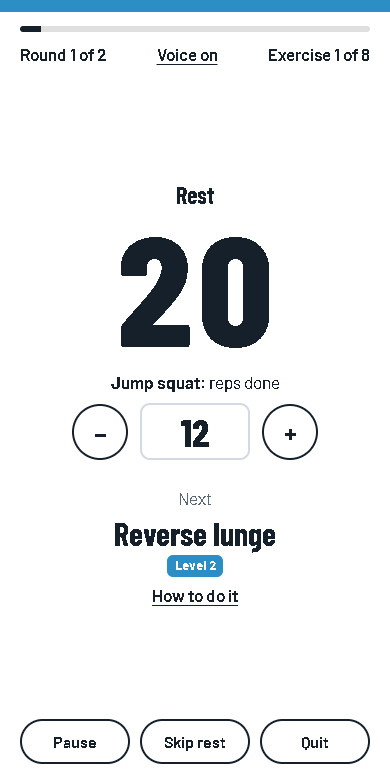
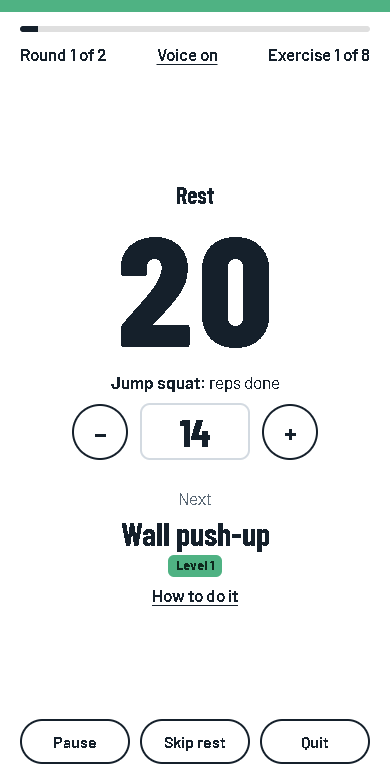
Teacher tutorial with screenshots, updated student tutorial
- Teacher tutorial: 15 steps in 6 topics covering every option, with screenshots,
  topic buttons and print
- Student tutorial: heart-rate check, live challenge and leaderboard, More menu;
  all screenshots retaken from the current app
- Timer: the heart-rate screen no longer shows an exercise counter

Changed region(s): [[0.0, 0.0, 1.0, 0.0308], [0.2769, 0.6462, 0.7077, 0.7385], [0.4615, 0.5231, 0.5538, 0.5846]]

diff --git a/index.html b/index.html
@@ -247,6 +247,7 @@ details.more>summary,details.settings>summary{cursor:pointer}
 button.tag.flag{border:0;cursor:pointer;background:var(--l4);color:#fff;font:700 .72rem var(--body)}
 canvas.confetti{position:fixed;inset:0;pointer-events:none;z-index:120}
 .tut img{display:block;width:100%;max-width:340px;border:1px solid var(--line);border-radius:12px;margin:10px 0 4px}
+.tguide img{max-width:760px}
 .tut .step{font-family:var(--display);font-weight:800;font-size:1.3rem}
 select.mv{width:auto;padding:.3em .5em;font-size:.9rem;border-radius:999px}
 @media (prefers-reduced-motion:reduce){*{transition:none!important}}
@@ -1526,7 +1527,7 @@ function renderPhase(){
       <button type="button" class="link" id="howp">How to do it</button>`;
   }
   el.innerHTML = `<div class="p-bar"><i style="width:${Math.round(P.i/P.phases.length*100)}%"></i></div>
-    <div class="p-top">${ph.type.startsWith('pulse') ? '<span>Heart rate</span>' : ph.item ? `<span>${ph.type==='warm' ? 'Warm-up' : 'Cool-down'} ${ph.idx+1} of ${ph.total}</span>` : `<span>Round ${ph.round+1} of ${R}</span>`}<button type="button" class="link small" id="vc" style="color:inherit">${voiceOn() ? 'Voice on' : 'Voice off'}</button>${ph.item ? '<span></span>' : `<span>Exercise ${ph.ex+1} of ${N}</span>`}</div>
+    <div class="p-top">${ph.type.startsWith('pulse') ? '<span>Heart rate</span>' : ph.item ? `<span>${ph.type==='warm' ? 'Warm-up' : 'Cool-down'} ${ph.idx+1} of ${ph.total}</span>` : `<span>Round ${ph.round+1} of ${R}</span>`}<button type="button" class="link small" id="vc" style="color:inherit">${voiceOn() ? 'Voice on' : 'Voice off'}</button>${ph.item || ph.type.startsWith('pulse') ? '<span></span>' : `<span>Exercise ${ph.ex+1} of ${N}</span>`}</div>
     <div class="p-main">${main}</div>
     <div class="p-ctrl">${P.sched ? '<span class="pbtn" style="border-style:dashed">Live with your class</span>' : `<button class="pbtn" id="pp">${P.paused?'Resume':'Pause'}</button>`}${ph.type==='work' || ph.type.startsWith('pulse') || P.sched ? '' : `<button class="pbtn" id="skip">${ph.type==='rest' ? 'Skip rest' : ph.item ? 'Skip' : 'Start now'}</button>`}<button class="pbtn" id="quit">Quit</button></div>`;
   if($('#pp')) $('#pp').onclick = togglePause;
@@ -1716,14 +1717,15 @@ function showHow(fid, only){
 
 /* ===== Student tutorial (screenshots in tutorial/) ===== */
 const TUTORIAL = [
-  ['Join your class', 'Scan the QR code on your teacher\'s class sheet, or open the link. It fills in your form and class code for you. Otherwise, choose your form, for example 10C, and type the class code.', 'join'],
-  ['Find your name', 'Pick your name. The first time, create a 4-digit PIN you will remember. On your own phone, leave "Keep me logged in" ticked.', 'name'],
-  ['Your page', 'The first line shows your week, for example "2 of 3 workouts". Your teacher\'s challenge workout is below it, with the date to do it by. Tap "See the workout".', 'home'],
-  ['Check the workout', 'The exercises run in this order. Where you see four levels, choose the one that challenges you. Tap "How to" if you are not sure how an exercise is done. Then press Start. The timer begins with a short warm-up. After the last exercise it turns red: find your pulse and count your beats for 30 seconds, then the stretches begin.', 'programme'],
+  ['Join your class', 'Scan the QR code on your teacher\'s class sheet, or open the link: it fills in your form and class code for you. Otherwise, choose your form, for example 10C, and type the class code.', 'join'],
+  ['Find your name', 'Pick your name. The first time, create a 4-digit PIN you will remember. On your own phone, leave "Keep me logged in" ticked. <b>TEACHER</b> at the end of the list is for your PE teacher.', 'name'],
+  ['Your page', 'The first line shows your week, for example "2 of 3 workouts". Your teacher\'s challenge is below it, with the date to do it by: tap <b>See the workout</b>. When there is no challenge, the big button starts a quick workout. Everything else is under <b>More</b>.', 'home'],
+  ['Check the workout', 'The exercises run in this order. Where you see four levels, choose the one that challenges you. Tap "How to" if you are not sure how an exercise is done. Then press Start. The timer begins with a short warm-up.', 'programme'],
   ['Follow the timer', 'Do the exercise until the timer ends and count your reps (or hold). You can pause, but you cannot skip an exercise.', 'work'],
   ['Log your score in the rest', 'During the rest, type how many reps you did, or how many seconds you held. If you are ready early, tap "Skip rest".', 'rest'],
-  ['Save your workout', 'Check your scores, choose how hard it felt from 1 to 10, then save. Every rep is 1 point and every second held is half a point, and harder levels are worth more.', 'summary'],
-  ['Train live with your class', 'When your teacher starts a live session, an alert appears on your page. Tap "I\'m ready". The workout starts for everyone at the same moment, so keep the app open. If you are late, tap "Join now".', null],
+  ['Heart rate check', 'After the last exercise the screen turns red. Stop and put two fingers (not your thumb) on your wrist, below the thumb, or on the side of your neck. When the 30-second clock starts, count every beat until it reaches 0, and remember your number. Then the stretches begin.', 'pulse'],
+  ['Save your workout', 'Type the beats you counted: the app doubles it to give your beats per minute (bpm). Then check your scores, choose how hard it felt from 1 to 10, and save. Every rep is 1 point and every second held is half a point, and harder levels are worth more.', 'summary'],
+  ['Train live with your class', 'When your teacher starts a live challenge, an alert appears on your page: tap <b>I\'m ready</b> and keep the app open. The workout starts for everyone at the same moment. If you are late, tap <b>Join now</b>. After saving, you see one leaderboard with everyone who took part, even from other forms.', 'live'],
   ['Add it to your home screen', 'On your phone, add the app to your home screen so it opens like a normal app and starts quickly. Tap "Add the app to your home screen" on your page for the steps.', null],
   ['See your points and progress', 'Open the <b>Me and my class</b> tab to compare with your class on the leaderboards, help your form win the form cup, collect badges, climb from Rookie to Legend and keep your weekly streak going.', 'board']
 ];
@@ -1879,7 +1881,7 @@ const goalSelect = (id, v=3) => `<select id="${id}">${[1,2,3,4,5,6,7].map(n=>`<o
 async function showTeacherHome(){
   header(); S.planFor = null;
   setView(`<h1>Classes</h1>
-    <p class="btns"><button class="btn" id="newPlanAll">Set a challenge workout</button><button class="btn" id="tpl">Saved challenges</button><button class="btn" id="board">Results board</button><button class="btn" id="imp">Import students</button><button class="btn ghost small" id="lib">Exercise list, levels 1 to 4</button><button class="btn ghost small" id="tguide">How it works (teachers)</button></p>
+    <p class="btns"><button class="btn" id="newPlanAll">Set a challenge workout</button><button class="btn" id="tpl">Saved challenges</button><button class="btn" id="board">Results board</button><button class="btn" id="imp">Import students</button><button class="btn ghost small" id="lib">Exercise list, levels 1 to 4</button><button class="btn ghost small" id="tguide">Teacher tutorial</button></p>
     <div id="ck"></div>
     <details class="panel settings"><summary><b>Add a class by hand</b></summary><div class="h3" style="margin-top:10px">Add a class or form</div>
       <div class="row2"><label class="field"><span>Class or form</span><input id="cn" placeholder="e.g. 10C"></label>
@@ -2987,24 +2989,42 @@ function showClassSheet(c, back){
   $('#print').onclick = () => window.print();
 }
 
+// Teacher tutorial: every option, in the order a new colleague needs them. Screenshots are in tutorial/teacher/.
 const TEACHER_GUIDE = [
-  ['Add your classes', 'On the Classes page, add a form such as 10C with a class code, or press <b>Import students from a file</b> and upload your Excel, LibreOffice or CSV list. The import creates the forms for you.'],
-  ['Give students their class code', 'Open a class and press <b>Class sheet (QR code)</b>. Print it, or show it on the screen. Students scan the code, choose their name and create a 4-digit PIN. If a student forgets their PIN, open the class and reset it.'],
-  ['Set a challenge workout', 'Press <b>Set a challenge workout</b>. Pick 8 to 12 exercises, a due date, and tick the forms or whole year groups that get it. Choose <b>Boys only</b> or <b>Girls only</b> when the groups are split that way. For each exercise, fix the level or let students pick theirs.'],
-  ['Boys and girls taught apart', 'Students always stay in their form. To teach boys or girls from several forms together, publish one challenge to those forms with <b>For: Boys only</b> (or Girls only). Those students see that challenge, and the rest of the form sees the other one.'],
-  ['Saved challenges', 'Every challenge you set is kept in <b>Saved challenges</b> (Classes page), shared by all PE teachers. Press <b>Use</b> to give it to other forms later, or <b>✕</b> to delete it.'],
-  ['Check who did it', 'Each class page shows who did the challenge on time, late or not at all, with their points. The <b>Results board</b> lets you filter by year group, form, gender and challenge status, copy the names of students who missed it, and download Excel.'],
-  ['Train together live', 'On the class page, press <b>Train together (live)</b> during a video call. Students tap <b>I\'m ready</b> on their own page, and the workout starts for everyone at the same moment, when all are ready or when you press <b>Start now</b>. You never log into a student\'s account. Ask students to open the app first.'],
-  ['My classes', 'Press <b>☆ Mine</b> on the forms you teach. They move to the top of your list on this device.'],
-  ['Settings', 'Class challenges, demo videos, backup, new school year and the teacher PIN are in the <b>Settings</b> drawer at the bottom of the Classes page. By default, students choose their own level for each exercise; untick that for any exercise you want to fix.'],
-  ['Backups and next year', 'Download a backup from time to time. At the end of the school year, <b>New school year</b> moves every class up one year and keeps students\' PINs.']];
+  ['Getting started', [
+    ['Log in', 'On the first screen press <b>Teacher</b> and type the teacher PIN. Every PE teacher uses the same PIN and sees every class. Each class name list also ends with <b>TEACHER</b>: log in there with the teacher PIN to do workouts and live challenges like a student.', null],
+    ['The Classes page', 'Three main buttons: <b>Set a challenge workout</b>, <b>Saved challenges</b> and <b>Results board</b>, plus <b>Import students</b>. Below, the getting-started list ticks itself as you go. Each class card has <b>Open</b>, <b>Class sheet</b>, <b>☆ Mine</b> (puts your forms first on this device) and <b>Download</b>. Less used tools are in the drawers at the bottom.', 'home']]],
+  ['Students', [
+    ['Import your class lists', 'Press <b>Import students</b> and choose an Excel, LibreOffice or CSV file (from Google Sheets, download it as .xlsx first). The app finds the name, form and gender columns and shows a preview: check it, then import. It creates the forms and moves students who changed form. <b>Files already imported</b> lists every file: press <b>✕</b> to delete an old version and the students who are not in a newer file.', 'import'],
+    ['Give students their class code', 'On a class card or class page, press <b>Class sheet</b>. It shows the class code, a QR code and the three login steps: show it on the screen or print it. Students scan it, choose their name and create a 4-digit PIN.', 'sheet'],
+    ['Manage the class list', 'Open a class to see every student with this week\'s workouts, streak and level. You can set each student\'s gender, move a student to another form, or remove them. To reset PINs, use <b>Reset PIN</b> on one student, tick several and press <b>Reset PIN of selected students</b>, or <b>Reset every PIN in this class</b>. Students then create a new PIN at their next login; their results are kept.', 'students']]],
+  ['Challenges', [
+    ['Set a challenge workout', 'Press <b>Set a challenge workout</b>. Give it a title, an optional message and a due date. Pick 8 to 12 exercises: by default students choose their own level, untick it to fix a level. Choose <b>For</b>: everyone, boys only or girls only. Tick the forms or a whole year group. <b>Keep it in Saved challenges</b> is ticked so you can use it again. Press <b>Publish</b>.', 'builder'],
+    ['Saved challenges', 'Every challenge you keep is listed here for all PE teachers, with its exercises and duration. Press <b>Use</b> to give it to other forms (you can still change the date, levels and exercises), or <b>✕</b> to delete it. To save a challenge without giving it to anyone, tick no form and press Publish.', 'saved'],
+    ['Follow a class\'s challenge', 'The class page shows one panel per challenge (for everyone, boys only or girls only) with how many have done it. After the due date it counts on time, late and missed, and tags late tries. Open <b>Not done yet</b> to see or copy the names. The results table ranks every student with their points, heart rate and each exercise. Previous challenges stay below, with <b>Use again</b> and <b>Save</b>.', 'class']]],
+  ['Live challenges', [
+    ['Train together from a class page', 'During a video call or a lesson, press <b>Train together (live)</b> on the challenge panel, then <b>Open the session</b>. Students get an alert and tap <b>I\'m ready</b>; you see the list fill up. It starts for everyone when all are ready, or when you press <b>Start now</b>. Ask students to open the app first: the alert only reaches those who have it open.', 'live'],
+    ['Several forms together, as TEACHER', 'Log in as <b>TEACHER</b> in your form and press <b>Start a live challenge</b>. Tick the forms that take part (for example 8B and 8C) and choose everyone, boys or girls. You do the workout too, and your score is saved and shown with a <b>Teacher</b> tag. Keep your own form ticked. Give all the forms the same challenge beforehand so everyone does the same workout.', 'acct'],
+    ['The live leaderboard', 'After the workout everyone counts their pulse, saves their score and sees one leaderboard for the whole live challenge: all the forms together, with each name\'s form, bpm and points. It updates as others save. Each result also counts for the student\'s own form\'s challenge.', 'lvboard']]],
+  ['Results', [
+    ['Results board', 'One page with every student. Filter by year group, form, gender, period (this week, last 4 weeks, the challenge, all time) and challenge status (on time, late, not done, missed). <b>Only students with nothing done</b> and <b>Copy names</b> help you follow up. The By class table compares forms, and <b>Download this view</b> gives an Excel file.', 'board'],
+    ['Student pages and Excel', 'Click any name to see that student\'s full progress: workouts, levels, personal bests and fitness checks. Each class card has <b>Download (.xlsx)</b>, and the Settings drawer downloads every class at once. Scores that look too high are marked <b>Check</b>, with the reason.', null]]],
+  ['Settings and good habits', [
+    ['Settings drawer', 'At the bottom of the Classes page: team <b>class challenges</b> (for example "Year 10: 1,000 workouts this half-term"), your own <b>demo videos</b> for any exercise, <b>backup</b> to Excel or a full file, <b>new school year</b> (moves every class up a year and keeps PINs) and <b>change teacher PIN</b>. On a class page you can also pick a <b>star of the week</b> and open a <b>fitness check</b>.', null],
+    ['Good habits', 'Set one challenge a week with a clear due date, ideally from Saved challenges. Start live challenges in a lesson first so students learn the routine. Check the results board each week and copy the names of students with nothing done. Download a backup each month. Use a long teacher PIN and never show it to students.', null]]]
+];
 function showTeacherGuide(){
   setView(`<p class="noprint"><button class="btn ghost small" id="back">Back</button> <button class="btn small" id="print">Print this page</button></p>
-    <h1>How it works for teachers</h1>
-    <p class="muted">${TEACHER_GUIDE.length} short steps. Every teacher uses the same teacher PIN and sees every class.</p>
-    <div class="clist tut">${TEACHER_GUIDE.map(([t, d], i)=>`<div class="panel"><div class="step">${i+1}. ${t}</div><p style="margin:4px 0 0;max-width:none">${d}</p></div>`).join('')}</div>`);
-  $('#back').onclick = showTeacherHome;
+    <h1>Teacher tutorial</h1>
+    <p class="muted">Everything a PE teacher needs, in order. Tap a topic to jump to it.</p>
+    <p class="btns noprint">${TEACHER_GUIDE.map(([h], i)=>`<button type="button" class="btn ghost small" data-goto="${i}">${esc(h)}</button>`).join('')}</p>
+    ${TEACHER_GUIDE.map(([h, steps], i)=>`<h2 id="tg${i}">${esc(h)}</h2>
+      <div class="clist tut tguide">${steps.map(([t, d, img])=>`<div class="panel"><div class="step">${t}</div><p style="margin:4px 0 0;max-width:none">${d}</p>
+        ${img ? `<img src="tutorial/teacher/${img}.png" alt="Screenshot: ${esc(t)}" loading="lazy" onerror="this.remove()">` : ''}</div>`).join('')}</div>`).join('')}
+    <p style="margin-top:20px" class="noprint"><button class="btn" id="back2">Back to the classes</button></p>`);
+  $('#back').onclick = $('#back2').onclick = showTeacherHome;
   $('#print').onclick = () => window.print();
+  $$('[data-goto]').forEach(b=>b.onclick = () => $('#tg' + b.dataset.goto)?.scrollIntoView({behavior:'smooth'}));
 }
 
 // First visit of a student: three short cards, shown once on this device

diff --git a/README.md b/README.md
@@ -13,7 +13,7 @@ The whole app is one file, [index.html](index.html). Data is stored in Supabase.
 - **Rank titles:** Rookie, Athlete (1,000 points), Pro (4,000) and Legend (10,000), with a progress bar to the next rank.
 - **Badges:** 12 to collect (first workout, streaks, level up, all-rounder, early bird, record breaker...). New badges, level-ups, ranks and personal bests are celebrated with confetti.
 - **Weekly recap** of last week, **star of the week** chosen by the teacher, **Surprise me** and **Quick 8-minute** workouts at the student's own levels, and a **voice coach** in the timer (can be turned off).
-- **How it works:** a 10-step tutorial with screenshots (images in [tutorial/](tutorial/)), open from the home page and the student page.
+- **Tutorial:** 11 steps with screenshots (images in [tutorial/](tutorial/)), from joining the class to the heart-rate check, live challenges and points. It opens from the first screen and from the student's More menu.
 - **Timer details:** full-screen with beeps, a "switch sides" signal on one-sided exercises, and score logging during rest. The screen stays awake.
 - **Progress:** a weekly goal set by the teacher, a streak of weeks with the goal reached, a chart of average level over time, personal bests, and a table of their current level for each movement.
 - **Challenge:** a movement is marked **Ready for Level N** when:
@@ -59,6 +59,7 @@ The whole app is one file, [index.html](index.html). Data is stored in Supabase.
 - **Challenge workout:** build it with the same builder from the exercise list, add a message and a due date, and give it to a whole year group or chosen forms at once. For each exercise, either fix the level for everyone or tick "Students choose their own level". See who has done it and who has not.
 - **Boys only or girls only:** students always stay in their form. When a challenge is set, **For** can be Everyone, Boys only or Girls only. A form can have an everyone challenge and a boys-only one at the same time: each student sees the one that fits, and the class page shows a panel for each, counting only the students it is for. Live sessions can also be opened for the boys or the girls of a form. This uses the gender saved for each student.
 - **Getting started, My classes, class sheet, teacher guide:** a checklist on the teacher page (import students, set a challenge, give out the class code, try a live session) that hides when done; **☆ Mine** to put your forms first (saved on your device); a printable **class sheet** with the class code, a QR code and three login steps; and a **How it works (teachers)** page that can be printed for a staff meeting.
+- **Teacher tutorial:** a full guide for colleagues inside the teacher page (button **Teacher tutorial** on the Classes page): 15 steps with screenshots in 6 topics (getting started, students, challenges, live challenges, results, settings and good habits), with buttons to jump to a topic and a Print button. Screenshots are in [tutorial/teacher/](tutorial/teacher/).
 - **Train together (live):** on the class page, start the challenge workout with the whole class at the same time, for example during a video call. The teacher uses their own teacher page and never logs into students' accounts. Each student taps **I'm ready** on their own page, and the page shows who is ready. The workout starts for everyone when the whole class is ready, or when you press **Start now**. Your own timer runs in step with theirs (nothing is saved for you), and each student saves their own score as usual. Only students with the app open get the alert, so ask them to open it first.
 - **Deadline:** once the due date has passed, the class page shows how many did it on time, late, or missed it. Late tries are tagged **Late** in the results, and the results board can show only students who did it on time, late, not done or missed.
 - **Class challenges:** count workouts, reps or minutes between two dates, for example "Year 10: 1,000 workouts this half-term".
